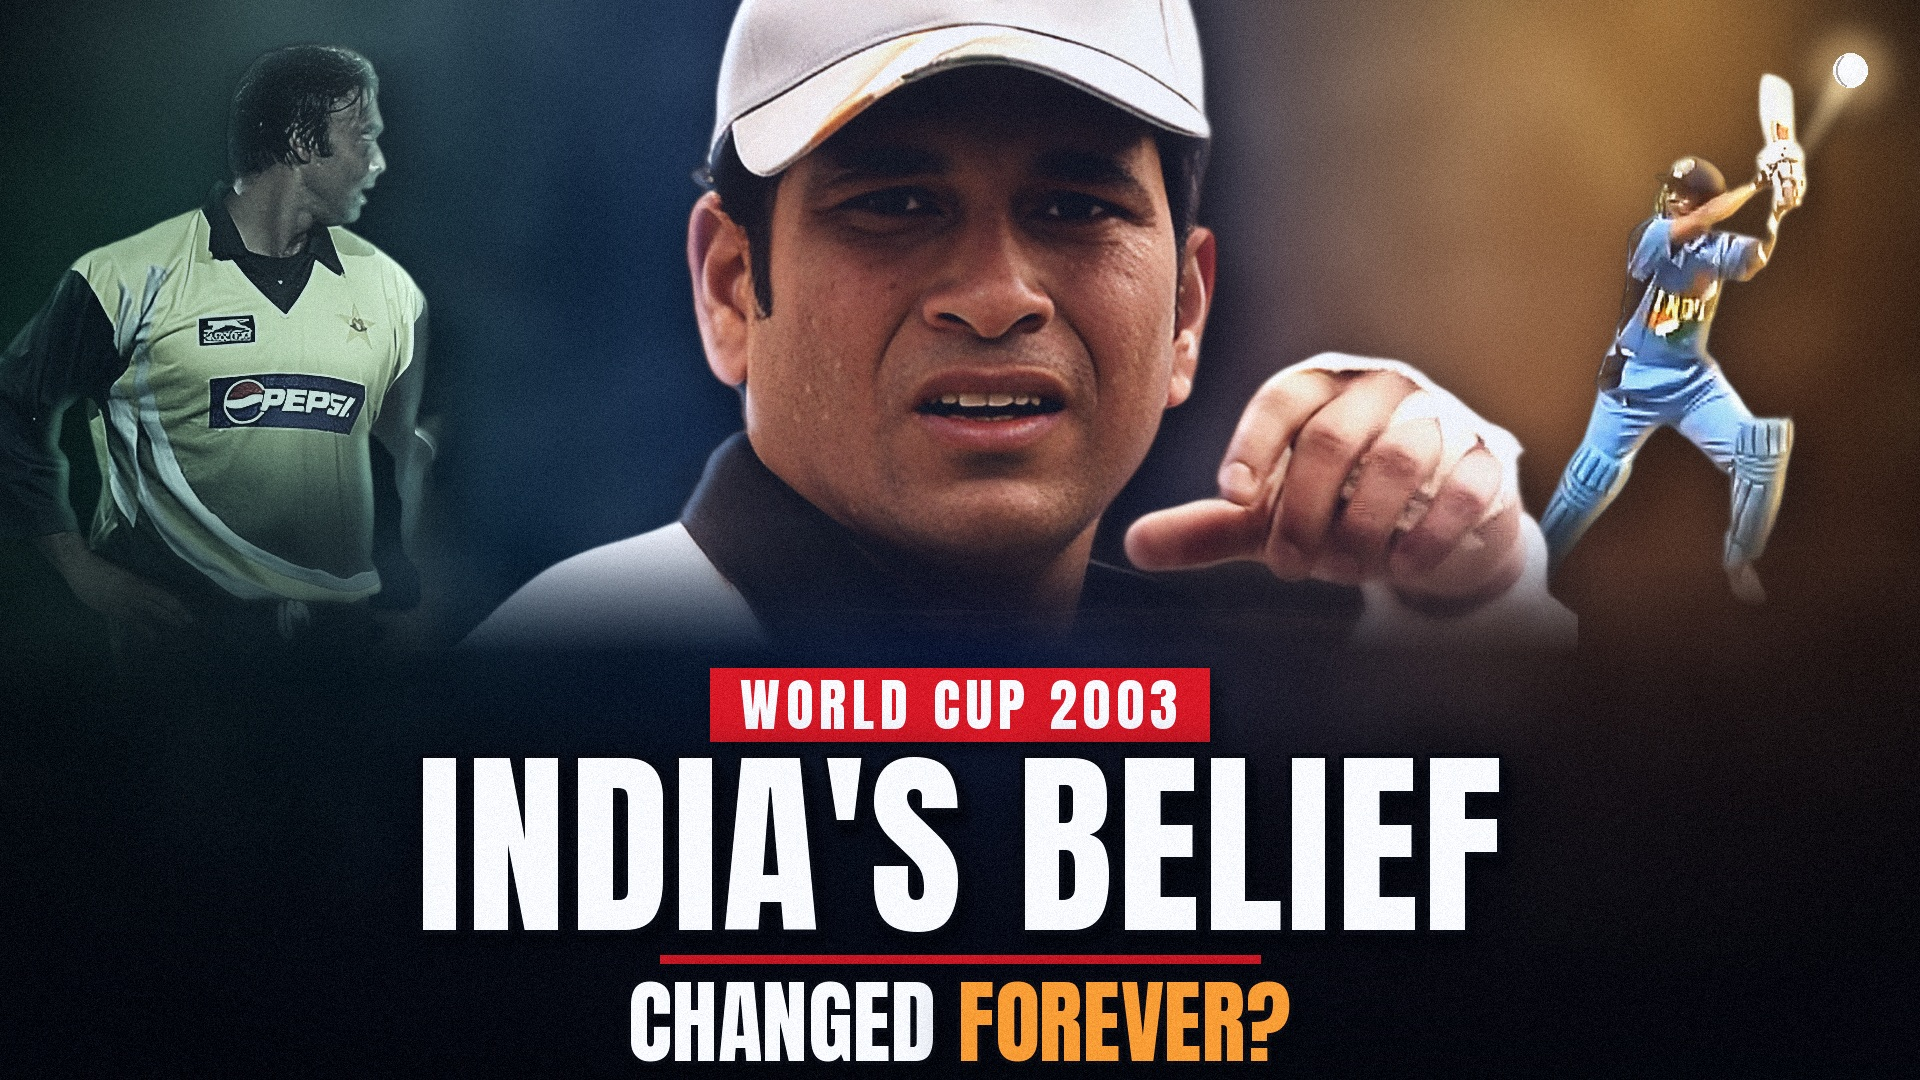
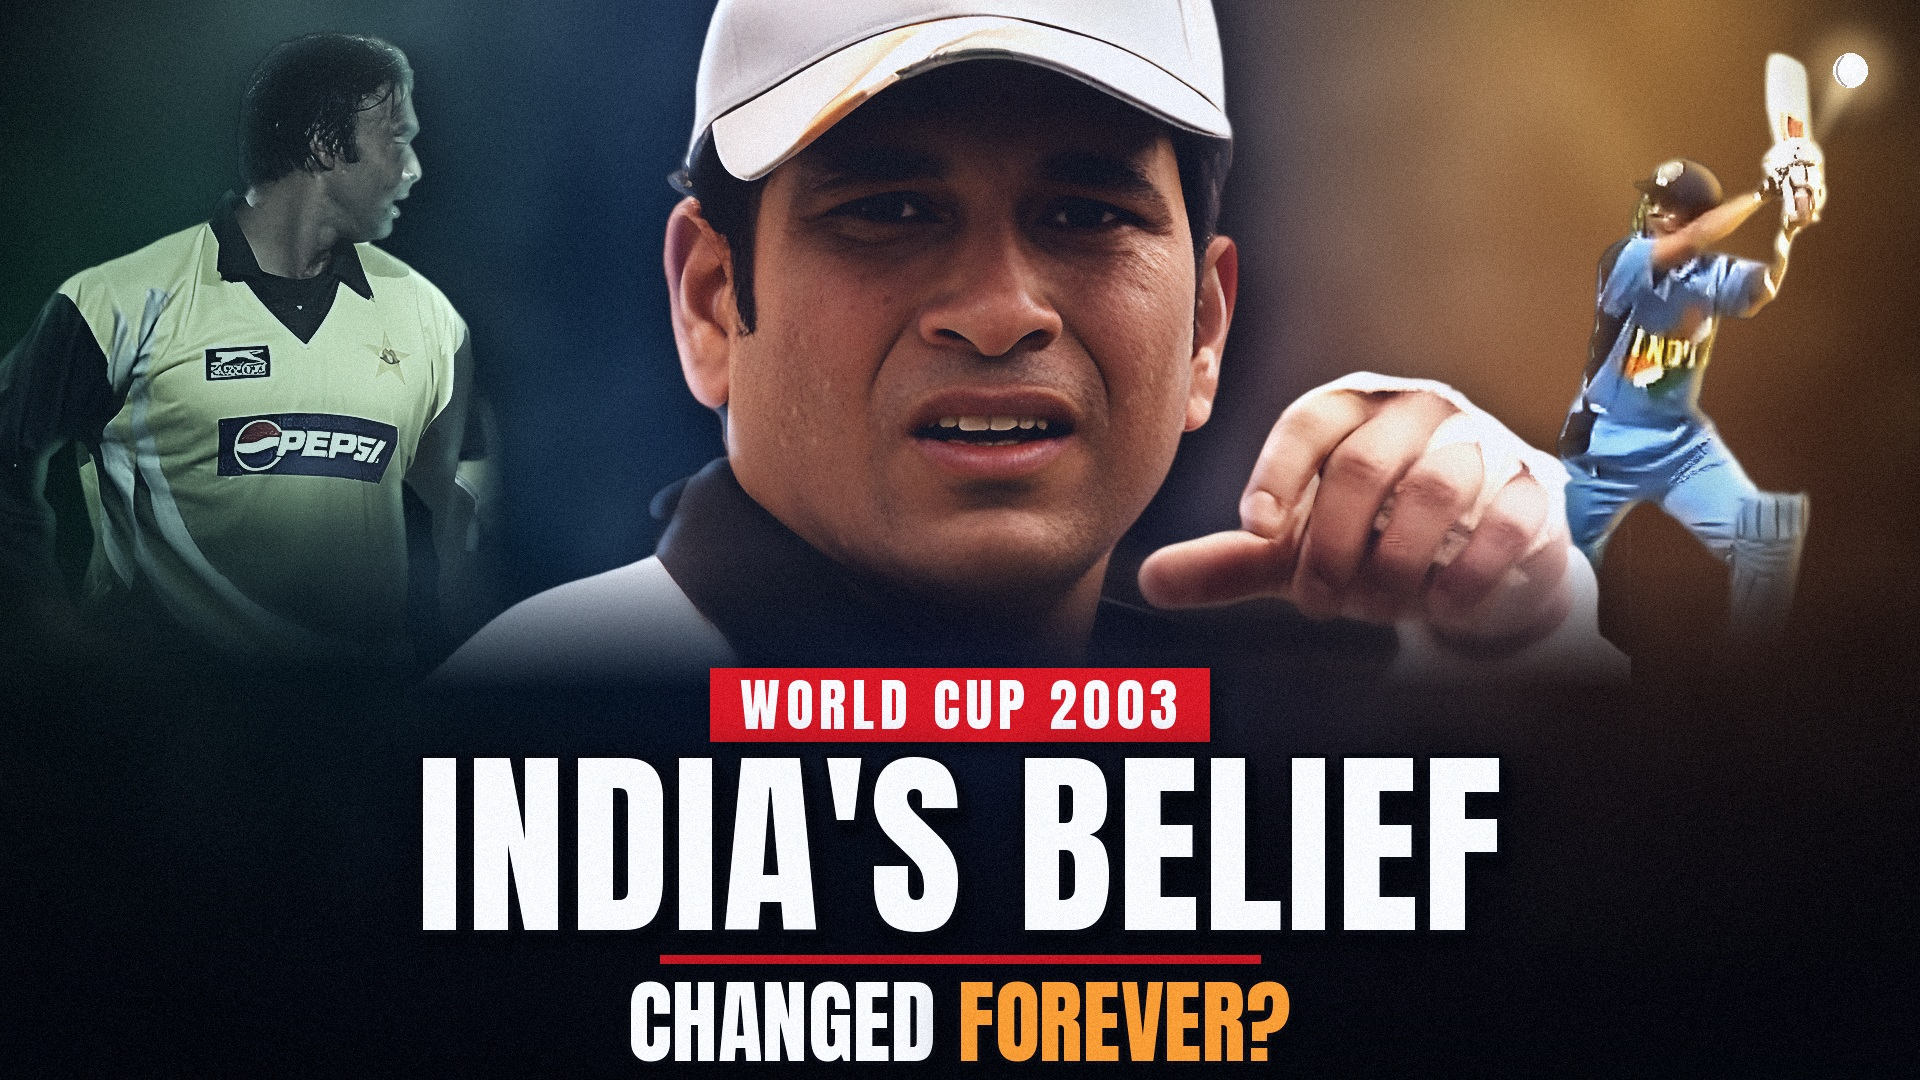
Rebuild thumbnail E from Real-ESRGAN 4x upscales of the supplied stills
esrgan.py runs Real-ESRGAN x4plus on CPU (weights loaded with weights_only);
prep_cuts.py blends each upscale with a Lanczos copy to keep natural texture and
cuts it out. Every layer is now downscaled into the 1920x1080 frame. The
upper-cut has no contact shadow (it was darkening the legs).

Claude-Session: https://claude.ai/code/session_01SQh72PYSr2UGL5osbLDTTd

Changed region(s): [[0.2188, 0.0, 0.9688, 0.6111], [0.0, 0.0306, 0.2812, 0.5806]]

diff --git a/doc_video/thumb/esrgan.py b/doc_video/thumb/esrgan.py
@@ -1,0 +1,78 @@
+"""Minimal Real-ESRGAN x4plus (RRDBNet) inference on CPU. usage: esrgan.py weights in out"""
+import sys
+
+import numpy as np
+import torch
+import torch.nn as nn
+import torch.nn.functional as F
+from PIL import Image
+
+
+class RDB(nn.Module):
+    def __init__(s, nf=64, gc=32):
+        super().__init__()
+        s.conv1 = nn.Conv2d(nf, gc, 3, 1, 1)
+        s.conv2 = nn.Conv2d(nf + gc, gc, 3, 1, 1)
+        s.conv3 = nn.Conv2d(nf + 2 * gc, gc, 3, 1, 1)
+        s.conv4 = nn.Conv2d(nf + 3 * gc, gc, 3, 1, 1)
+        s.conv5 = nn.Conv2d(nf + 4 * gc, nf, 3, 1, 1)
+        s.l = nn.LeakyReLU(0.2, True)
+
+    def forward(s, x):
+        x1 = s.l(s.conv1(x))
+        x2 = s.l(s.conv2(torch.cat((x, x1), 1)))
+        x3 = s.l(s.conv3(torch.cat((x, x1, x2), 1)))
+        x4 = s.l(s.conv4(torch.cat((x, x1, x2, x3), 1)))
+        return s.conv5(torch.cat((x, x1, x2, x3, x4), 1)) * 0.2 + x
+
+
+class RRDB(nn.Module):
+    def __init__(s, nf=64):
+        super().__init__()
+        s.rdb1, s.rdb2, s.rdb3 = RDB(nf), RDB(nf), RDB(nf)
+
+    def forward(s, x):
+        return s.rdb3(s.rdb2(s.rdb1(x))) * 0.2 + x
+
+
+class RRDBNet(nn.Module):
+    def __init__(s, nf=64, nb=23):
+        super().__init__()
+        s.conv_first = nn.Conv2d(3, nf, 3, 1, 1)
+        s.body = nn.Sequential(*[RRDB(nf) for _ in range(nb)])
+        s.conv_body = nn.Conv2d(nf, nf, 3, 1, 1)
+        s.conv_up1 = nn.Conv2d(nf, nf, 3, 1, 1)
+        s.conv_up2 = nn.Conv2d(nf, nf, 3, 1, 1)
+        s.conv_hr = nn.Conv2d(nf, nf, 3, 1, 1)
+        s.conv_last = nn.Conv2d(nf, 3, 3, 1, 1)
+        s.l = nn.LeakyReLU(0.2, True)
+
+    def forward(s, x):
+        f = s.conv_first(x)
+        f = f + s.conv_body(s.body(f))
+        f = s.l(s.conv_up1(F.interpolate(f, scale_factor=2, mode="nearest")))
+        f = s.l(s.conv_up2(F.interpolate(f, scale_factor=2, mode="nearest")))
+        return s.conv_last(s.l(s.conv_hr(f)))
+
+
+net = RRDBNet()
+sd = torch.load(sys.argv[1], map_location="cpu", weights_only=True)  # tensors only, no pickled code
+net.load_state_dict(sd.get("params_ema", sd))
+net.eval()
+
+im = np.asarray(Image.open(sys.argv[2]).convert("RGB")).astype(np.float32) / 255
+x = torch.from_numpy(im).permute(2, 0, 1)[None]
+T, P = 200, 16  # tile size + overlap
+_, _, h, w = x.shape
+out = torch.zeros(1, 3, h * 4, w * 4)
+with torch.no_grad():
+    for y0 in range(0, h, T):
+        for x0 in range(0, w, T):
+            ya, xa = max(0, y0 - P), max(0, x0 - P)
+            yb, xb = min(h, y0 + T + P), min(w, x0 + T + P)
+            o = net(x[:, :, ya:yb, xa:xb])
+            ty, tx = (y0 - ya) * 4, (x0 - xa) * 4
+            hh, ww = (min(h, y0 + T) - y0) * 4, (min(w, x0 + T) - x0) * 4
+            out[:, :, y0 * 4:y0 * 4 + hh, x0 * 4:x0 * 4 + ww] = o[:, :, ty:ty + hh, tx:tx + ww]
+Image.fromarray((out[0].permute(1, 2, 0).clamp(0, 1).numpy() * 255).round().astype(np.uint8)).save(sys.argv[3])
+print("ok", sys.argv[3], out.shape[-1], out.shape[-2])

diff --git a/doc_video/thumb/thumb_wc2003.py b/doc_video/thumb/thumb_wc2003.py
@@ -311,33 +311,32 @@ def finish(base, name):
 
 
 def main_hq():
-    """Same layout from the higher-resolution stills supplied for the thumbnail (cut_hq_*)."""
+    """Same layout from the supplied stills, upscaled 4x with Real-ESRGAN (cut_x4_*), so every layer is downscaled."""
     base = background()
 
     # LEFT - Shoaib staring across at Sachin, desaturated and set back
-    # sizes keep every still within ~1.2x of its source pixels so nothing is blown up soft
-    sh = load_cut("cut_hq_shoaib_stare.png", 660)
-    sh = regrade(sh, color=0.35, contrast=1.25, bright=0.85, sharpen=(1.2, 110, 1), tint=(60, 130, 90), tint_k=0.25)
+    sh = load_cut("cut_x4_shoaib_stare.png", 760)
+    sh = regrade(sh, color=0.35, contrast=1.25, bright=0.85, sharpen=(1.0, 60, 1), tint=(60, 130, 90), tint_k=0.25)
     sh = directional_light(sh, "right", (225, 240, 230), 0.8)
     sh = fade_bottom(sh, 440, 640)
-    place(base, sh, -40, 40, rim_color=(190, 235, 205), rim_side=1, rim_k=0.3)
+    place(base, sh, -70, 30, rim_color=(190, 235, 205), rim_side=1, rim_k=0.3)
 
     # RIGHT - the upper-cut
-    up = load_cut("cut_wc_sachin_uppercut.png", 540)
-    up = regrade(up, color=1.15, contrast=1.15, bright=1.05, sharpen=(1.2, 120, 1))
+    up = load_cut("cut_x4_sachin_uppercut.png", 600)
+    up = regrade(up, color=1.15, contrast=1.15, bright=1.05, sharpen=(1.0, 60, 1))
     up = directional_light(up, "right", SAFFRON, 0.8)
-    up = fade_bottom(up, 430, 540)
-    ux, uy = W - up.width - 110, 70
-    place(base, up, ux, uy, rim_color=GOLD, rim_side=1, rim_k=0.5)
+    up = fade_bottom(up, 470, 600)
+    ux, uy = W - up.width - 90, 50
+    place(base, up, ux, uy, rim_color=GOLD, rim_side=1, rim_k=0.5, shadow=0)
     ball_with_trail(base, W - 70, 70, ux + up.width - 40, uy + 140)
 
     # CENTRE - the hero close-up
-    hero = load_cut("cut_hq_sachin_cap.png", 700)
-    hero = regrade(hero, color=1.08, contrast=1.1, bright=1.06, sharpen=(1.2, 110, 1))
+    hero = load_cut("cut_x4_sachin_cap.png", 760)
+    hero = regrade(hero, color=1.08, contrast=1.1, bright=1.06, sharpen=(1.0, 50, 1))
     hero = directional_light(hero, "left", (255, 214, 170), 0.45)
-    hero = fade_bottom(hero, 560, 690)
+    hero = fade_bottom(hero, 600, 740)
     # the source photo crops the top of the cap; keep that edge just above the frame
-    hx, hy = 960 - int(hero.width * 0.48), -36
+    hx, hy = 960 - int(hero.width * 0.48), -50
     place(base, hero, hx, hy, wrap=0.45, rim_color=ICE, rim_side=-1, rim_k=0.4, shadow=0.75)
 
     headline(base)

diff --git a/doc_video/thumb/prep_cuts.py b/doc_video/thumb/prep_cuts.py
@@ -1,0 +1,34 @@
+"""Blend Real-ESRGAN output with a plain Lanczos upscale (keeps natural skin texture), cut out, save to thumb/."""
+import numpy as np
+from PIL import Image, ImageFilter
+from rembg import new_session, remove
+
+S = os.environ.get("THUMB_SCRATCH", "/tmp/thumb_sr")  
+U = "/root/.claude/uploads/f9639e0c-d650-5d7c-847c-d36184625aa6"
+T = "/home/user/Editing/doc_video/thumb"
+sess = new_session("isnet-general-use")
+
+jobs = [  # (esrgan output, source it was made from, crop box in source px, out name, texture mix)
+    ("up_sachin_cap.png", f"{U}/ea9715f3-image.webp", (40, 20, 960, 562), "cut_x4_sachin_cap.png", 0.3),
+    ("up_shoaib.png", f"{S}/sr/src_shoaib.png", (0, 0, 470, 583), "cut_x4_shoaib_stare.png", 0.25),
+    ("up_upper.png", f"{S}/sr/src_upper.png", None, "cut_x4_sachin_uppercut.png", 0.15),
+]
+for up, src, box, name, mix in jobs:
+    e = Image.open(f"{S}/sr/{up}").convert("RGB")
+    o = Image.open(src).convert("RGB").resize(e.size, Image.LANCZOS)
+    a = np.asarray(e, np.float32) * (1 - mix) + np.asarray(o, np.float32) * mix
+    im = Image.fromarray(a.clip(0, 255).astype(np.uint8)).filter(ImageFilter.UnsharpMask(1.5, 40, 2))
+    if box:
+        im = im.crop(tuple(v * 4 for v in box))
+    # matte at half res (rembg works at ~1k internally), then upscale the alpha
+    half = im.resize((im.width // 2, im.height // 2), Image.LANCZOS)
+    alpha = remove(half, session=sess, only_mask=True).resize(im.size, Image.LANCZOS)
+    im.putalpha(alpha)
+    im = im.crop(alpha.point(lambda v: 255 if v > 20 else 0).getbbox())
+    if "shoaib" in name:  # soften the edge where Sachin's shoulder was cropped off
+        al = np.asarray(im.getchannel("A"), np.float32)
+        w = al.shape[1]
+        al *= np.clip((w - 1 - np.arange(w)) / 160, 0, 1)[None, :]
+        im.putalpha(Image.fromarray(al.astype(np.uint8)))
+    im.save(f"{T}/{name}")
+    print(name, im.size)
